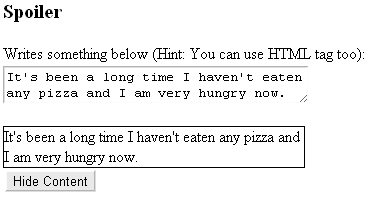
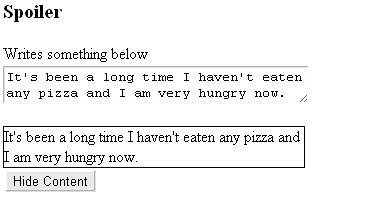
fixed Spoiler

Changed region(s): [[0.4107, 0.2376, 0.968, 0.297]]

diff --git a/Virucodesoup/Javascript/Spoiler/spoiler.js b/Virucodesoup/Javascript/Spoiler/spoiler.js
@@ -54,7 +54,7 @@ function Spoiler() {
 	{
 		document.write("<div name=\"spoiler"+_instanceVarStr+"\">")
 		document.write("<form name=\"f_spoiler_"+_instanceVarStr+"\" >");
-		document.write("Writes something below (Hint: You can use HTML tag too): <br /><textarea style=\"width:300px;\" name=\"ta_contentInput_"+_instanceVarStr+"\" onkeyup=\""+_instanceVarStr+".moves('content_"+_instanceVarStr+"',ta_contentInput_"+_instanceVarStr+");\" ></textarea>");
+		document.write("Writes something below : <br /><textarea style=\"width:300px;\" name=\"ta_contentInput_"+_instanceVarStr+"\" onkeyup=\""+_instanceVarStr+".moves('content_"+_instanceVarStr+"',ta_contentInput_"+_instanceVarStr+");\" ></textarea>");
 		document.write("</form><br />");
 		document.write("<div id=\"content_"+_instanceVarStr+"\" style=\" width:300px; height:auto; border-color: #000000; border: solid; border-width:1px; word-wrap:break-word; \"></div>");
 		document.write("<input id=\"i_doSpoiler_"+_instanceVarStr+"\" type=\"button\" value=\"Hide Content\" onclick=\""+_instanceVarStr+".showOrHideSpoiler('content_"+_instanceVarStr+"','i_doSpoiler_"+_instanceVarStr+"');\" /><br />");
